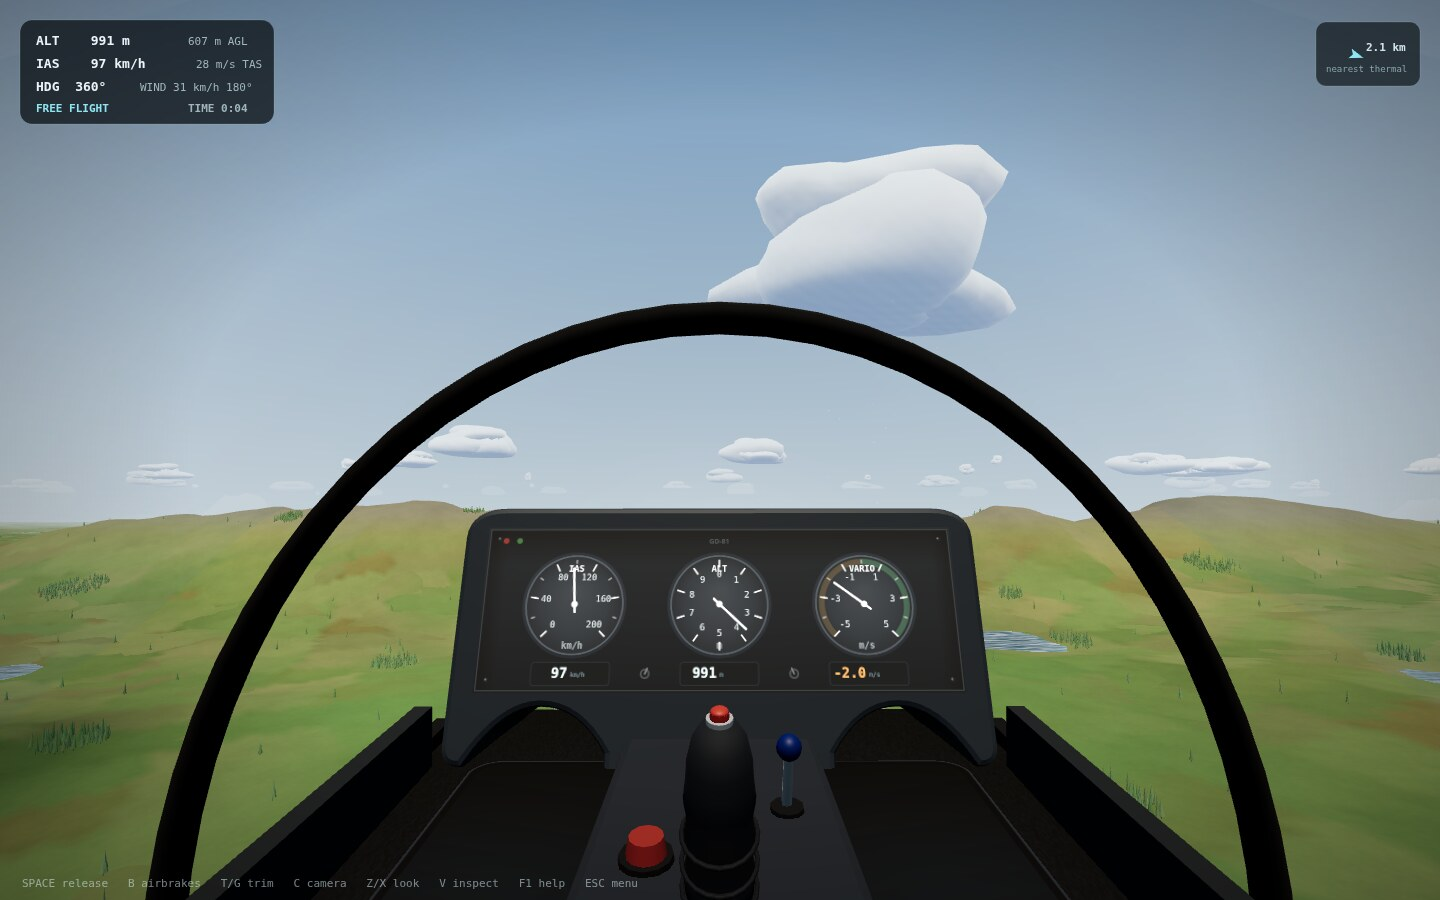
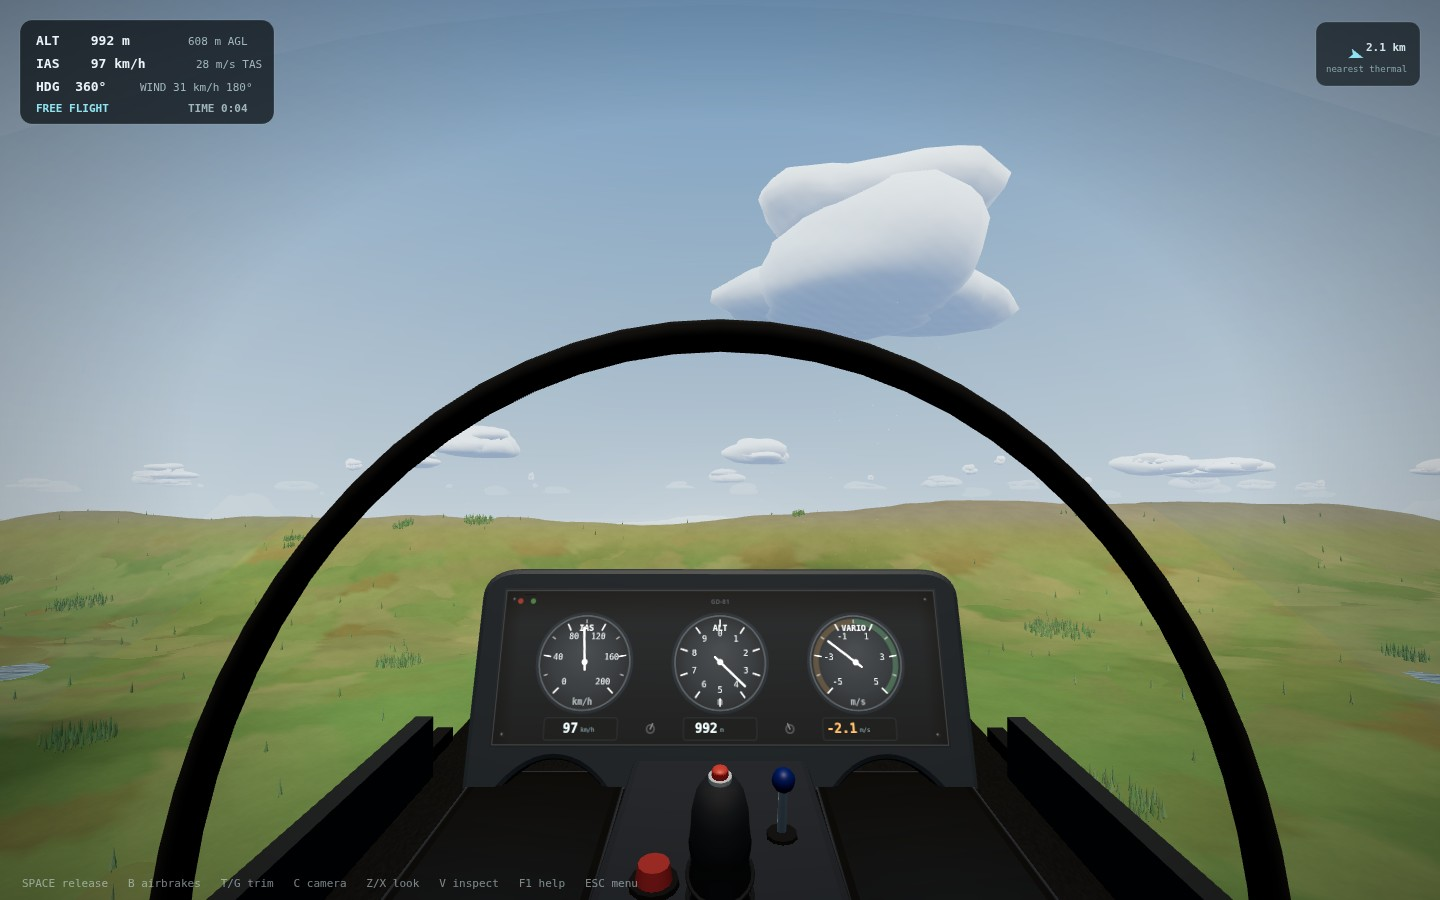
Open the flare view and add a landing height cue
Drop and flatten the forward fuselage ahead of the canopy, and set the
panel low under the coaming. Together they buy about two degrees of
downward view over the nose without moving the canopy, shrinking the
gauges or touching the flight model.

Below 20 m AGL the HUD now shows a compact flare strip with height,
sink and a marker over the 1.2-6 m band. It sits in the bottom corner in
cockpit view and above the instrument cluster otherwise, and only
appears on a descending free flight.

Update the landing notes, help panel, README cockpit description and
cockpit screenshot.

diff --git a/src/ui/hud.ts b/src/ui/hud.ts
@@ -71,6 +71,7 @@ export class Hud {
     // In the cockpit the 3D panel carries the three primary instruments, so
     // the duplicate bottom cluster would only sit on top of it.
     if (!cockpitView || state === "ended") this.drawPanel(sim);
+    if (state === "flying" || state === "paused") this.drawFlareCue(sim, cockpitView);
     this.drawMessage(sim);
     if (thermalHelpers && !sim.onGround) this.drawThermalHelper(sim);
     if (sim.stall > 0.22) this.drawStall(sim);
@@ -228,6 +229,72 @@ export class Hud {
       ctx.fillText(unit, cx + 2, boxY + boxH / 2 + 0.5);
       ctx.restore();
     }
+  }
+
+  /**
+   * Landing flare cue. The coaming and nose hide the near runway once the
+   * glider pitches, so below 20 m the HUD shows height above ground and sink
+   * on a short tape. The green band marks the flare height; a marker still
+   * outside it on a steep approach is the cue to ease back and let the sink
+   * settle without having to find the ground through the nose.
+   */
+  private drawFlareCue(sim: Simulation, cockpitView: boolean): void {
+    if (sim.mode !== "free" || sim.onGround || sim.agl > 20 || sim.agl < 0) return;
+    // Do not flash the cue while climbing away after a low save.
+    if (sim.vario > 0.8 && sim.agl > 6) return;
+
+    const fade = clamp((20 - sim.agl) / 5, 0, 1);
+    if (fade <= 0.01) return;
+
+    const ctx = this.ctx;
+    const w = 196;
+    const h = 72;
+    const x = this.width - w - 22;
+    const y = cockpitView ? this.height - h - 46 : this.height - h - 216;
+
+    const sink = Math.max(0, -sim.vario);
+    const inBand = sim.agl >= 1.2 && sim.agl <= 6;
+    const low = sim.agl < 1.2;
+    const accent = inBand ? GREEN : low ? (sink < 0.6 ? GREEN : AMBER) : CYAN;
+
+    ctx.save();
+    ctx.globalAlpha = fade;
+    this.roundRect(x, y, w, h, 10, "rgba(8,13,17,0.74)", BORDER);
+
+    ctx.textAlign = "left";
+    ctx.textBaseline = "middle";
+    ctx.font = "600 10px ui-monospace, SFMono-Regular, Menlo, monospace";
+    ctx.fillStyle = "rgba(143, 227, 242, 0.8)";
+    ctx.fillText("FLARE", x + 14, y + 15);
+
+    ctx.textAlign = "right";
+    ctx.font = "700 18px ui-monospace, SFMono-Regular, Menlo, monospace";
+    ctx.fillStyle = accent;
+    ctx.fillText(sim.agl.toFixed(1), x + w - 54, y + 15);
+    ctx.font = "10px ui-monospace, SFMono-Regular, Menlo, monospace";
+    ctx.fillStyle = "rgba(205, 218, 223, 0.62)";
+    ctx.fillText("m AGL", x + w - 14, y + 16);
+
+    ctx.textAlign = "left";
+    ctx.font = "11px ui-monospace, SFMono-Regular, Menlo, monospace";
+    ctx.fillStyle = sink > 2 ? AMBER : "#9fb4bb";
+    ctx.fillText(`SINK ${sink.toFixed(1)} m/s`, x + 14, y + 37);
+
+    const barX = x + 14;
+    const barW = w - 28;
+    const barY = y + 54;
+    const barH = 4;
+    const markX = (agl: number): number => barX + clamp(agl / 20, 0, 1) * barW;
+
+    ctx.fillStyle = "rgba(190, 225, 235, 0.2)";
+    ctx.fillRect(barX, barY, barW, barH);
+    ctx.fillStyle = "rgba(125, 223, 149, 0.38)";
+    ctx.fillRect(markX(1.2), barY, markX(6) - markX(1.2), barH);
+    ctx.fillStyle = "rgba(190, 225, 235, 0.35)";
+    for (const mark of [5, 10, 15]) ctx.fillRect(markX(mark), barY - 2, 1, barH + 4);
+    ctx.fillStyle = accent;
+    ctx.fillRect(markX(sim.agl) - 1, barY - 4, 2, barH + 8);
+    ctx.restore();
   }
 
   private drawInfo(x: number, y: number, h: number, sim: Simulation): void {

diff --git a/src/render/gliderMesh.ts b/src/render/gliderMesh.ts
@@ -22,6 +22,7 @@ import {
   Vector2,
   Vector3,
 } from "three";
+import { smoothstep } from "../core/math";
 import { mulberry32 } from "../core/rng";
 import { COCKPIT_VIEW } from "../config";
 
@@ -350,6 +351,19 @@ const FUSELAGE_PROFILE: Array<[number, number]> = [
   [0.0, 3.06],
 ];
 
+/**
+ * Nose droop applied to the lathe after it is built. It starts at the leading
+ * edge of the canopy and deepens toward the tip: the top line falls about
+ * 12 cm and the section narrows vertically, while the belly drops only a
+ * little, so ground clearance stays comfortable. That buys roughly two
+ * degrees of downward view over the nose, which is what the pilot needs to
+ * keep the aiming point in sight in the flare.
+ */
+const NOSE_DROOP_START = -1.72;
+const NOSE_DROOP_END = -2.8;
+const NOSE_DROOP = 0.09;
+const NOSE_FLATTEN = 0.12;
+
 /** Smooth lathed fuselage with a painted dorsal spine. */
 function createFuselageGeometry(): BufferGeometry {
   const profile = FUSELAGE_PROFILE;
@@ -371,6 +385,21 @@ function createFuselageGeometry(): BufferGeometry {
     colors[i * 3 + 2] = color.b;
   }
   geometry.setAttribute("color", new BufferAttribute(colors, 3));
+
+  // Drop and flatten the nose ahead of the canopy. The blend starts at the
+  // canopy's leading edge, so the sill still meets the fuselage, and reaches
+  // full depth before the tip. Lowering the top line opens the view over the
+  // nose in the flare; the squash keeps the section from reading as a fat
+  // cone, and pulling the belly down slightly stops it looking like a step.
+  for (let i = 0; i < position.count; i++) {
+    const z = position.getZ(i);
+    const t = smoothstep(NOSE_DROOP_START, NOSE_DROOP_END, z);
+    if (t <= 0) continue;
+    const y = position.getY(i);
+    position.setY(i, y * (1 - NOSE_FLATTEN * t) - NOSE_DROOP * t);
+  }
+  position.needsUpdate = true;
+  geometry.computeVertexNormals();
   return geometry;
 }
 
@@ -1336,7 +1365,9 @@ export class GliderMesh {
     };
 
     const dashboard = new Group();
-    dashboard.position.set(0, 0.452, -1.3);
+    // The panel sits low under the coaming, which keeps the whole horizon and
+    // the aiming point in view when the nose comes up in the flare.
+    dashboard.position.set(0, 0.426, -1.3);
     dashboard.rotation.x = -0.3;
     addToConsole(dashboard);
 
@@ -1813,7 +1844,7 @@ export class GliderMesh {
 
     // Tow hook and pitot: small details that sell the scale.
     const hook = new Mesh(new BoxGeometry(0.05, 0.05, 0.14), darkMaterial);
-    hook.position.set(0, -0.3, -2.45);
+    hook.position.set(0, -0.37, -2.45);
     this.body.add(hook);
 
     const pitot = new Mesh(new CylinderGeometry(0.008, 0.008, 0.42, 6), metalMaterial);

diff --git a/index.html b/index.html
@@ -176,6 +176,7 @@
               <li>Ridge lift is smooth and mechanical. Stay inside the band of lift along the windward slope.</li>
               <li>Total-energy vario compensates for speed changes. Pull up and it will read the energy you are trading.</li>
               <li>Airbrakes are your friend on approach. Full boards give a steep, controllable descent.</li>
+              <li>Below 20 m the HUD shows a flare strip. Watch the height marker enter the green band and let the sink settle.</li>
             </ul>
           </div>
         </div>

diff --git a/README.md b/README.md
@@ -196,7 +196,10 @@ On the menu, **Enter** starts the selected flight.
    the cols with height. On a westerly, the north-south bank to the west takes
    over. Stay inside the band just above the windward face.
 4. **Land.** Airbrakes are effective. Arrive with height, fly a normal circuit,
-   and touch down wings level and slow. Ground contact above 3.4 m/s vertical
+   and touch down wings level and slow. Below 20 m above the ground the HUD
+   shows a small flare strip with height, sink and a marker over the green
+   1.2–6 m band, so you can judge the hold-off even when the nose hides the
+   near runway. Ground contact above 3.4 m/s vertical
    speed, more than ~30° of bank, or a nose-down attitude is treated as a
    crash. A safe touchdown starts a real landing roll: the glider keeps moving,
    `Q`/`E` steer with the rudder, and `B` applies the wheel brake. The summary
@@ -213,7 +216,10 @@ reflective inner shell with a front bow and glinting edges, so you are aware of
 the glass without it fogging the view. The side rails, centre stick and centre
 console stay in sight, with the nose below the panel giving the horizon
 reference; mouse-drag looks around, and `Z` / `X` toggle a shoulder check to the
-left or right.
+left or right. The panel sits low under the coaming and the nose line falls
+away ahead of the canopy, so the aiming point stays in view as the nose comes
+up; below 20 m a compact flare strip shows height and sink in the bottom
+corner.
 The dash is a moulded arch that sweeps down into deep knee cut-outs either side
 of the centre tunnel, and the flocked deck carries two dark footwells with baked
 contact shadows, so the cockpit reads as a shaded tub rather than a flat plate.
